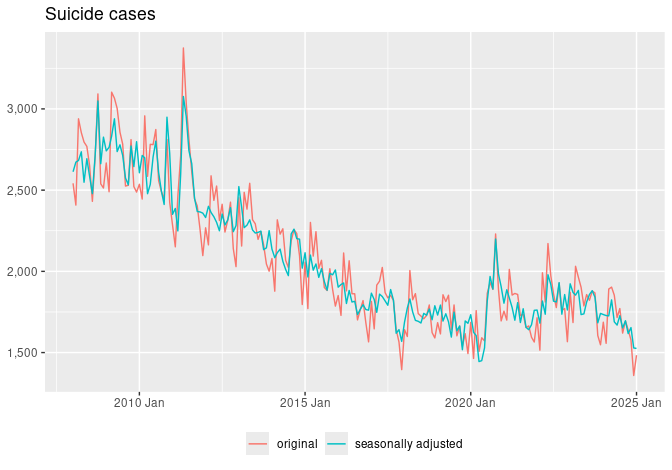
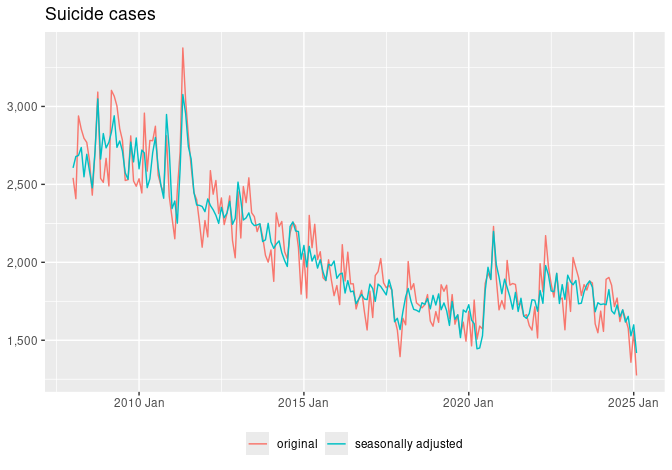
update February 2025 cases

diff --git a/README.md b/README.md
@@ -10,7 +10,7 @@ Mitsuo Shiota
 - [Suicide cases are bouncing back, but not as fast as the program
   suggests](#suicide-cases-are-bouncing-back-but-not-as-fast-as-the-program-suggests)
 
-Updated: 2025-03-05
+Updated: 2025-04-02
 
 ## Motivation
 
